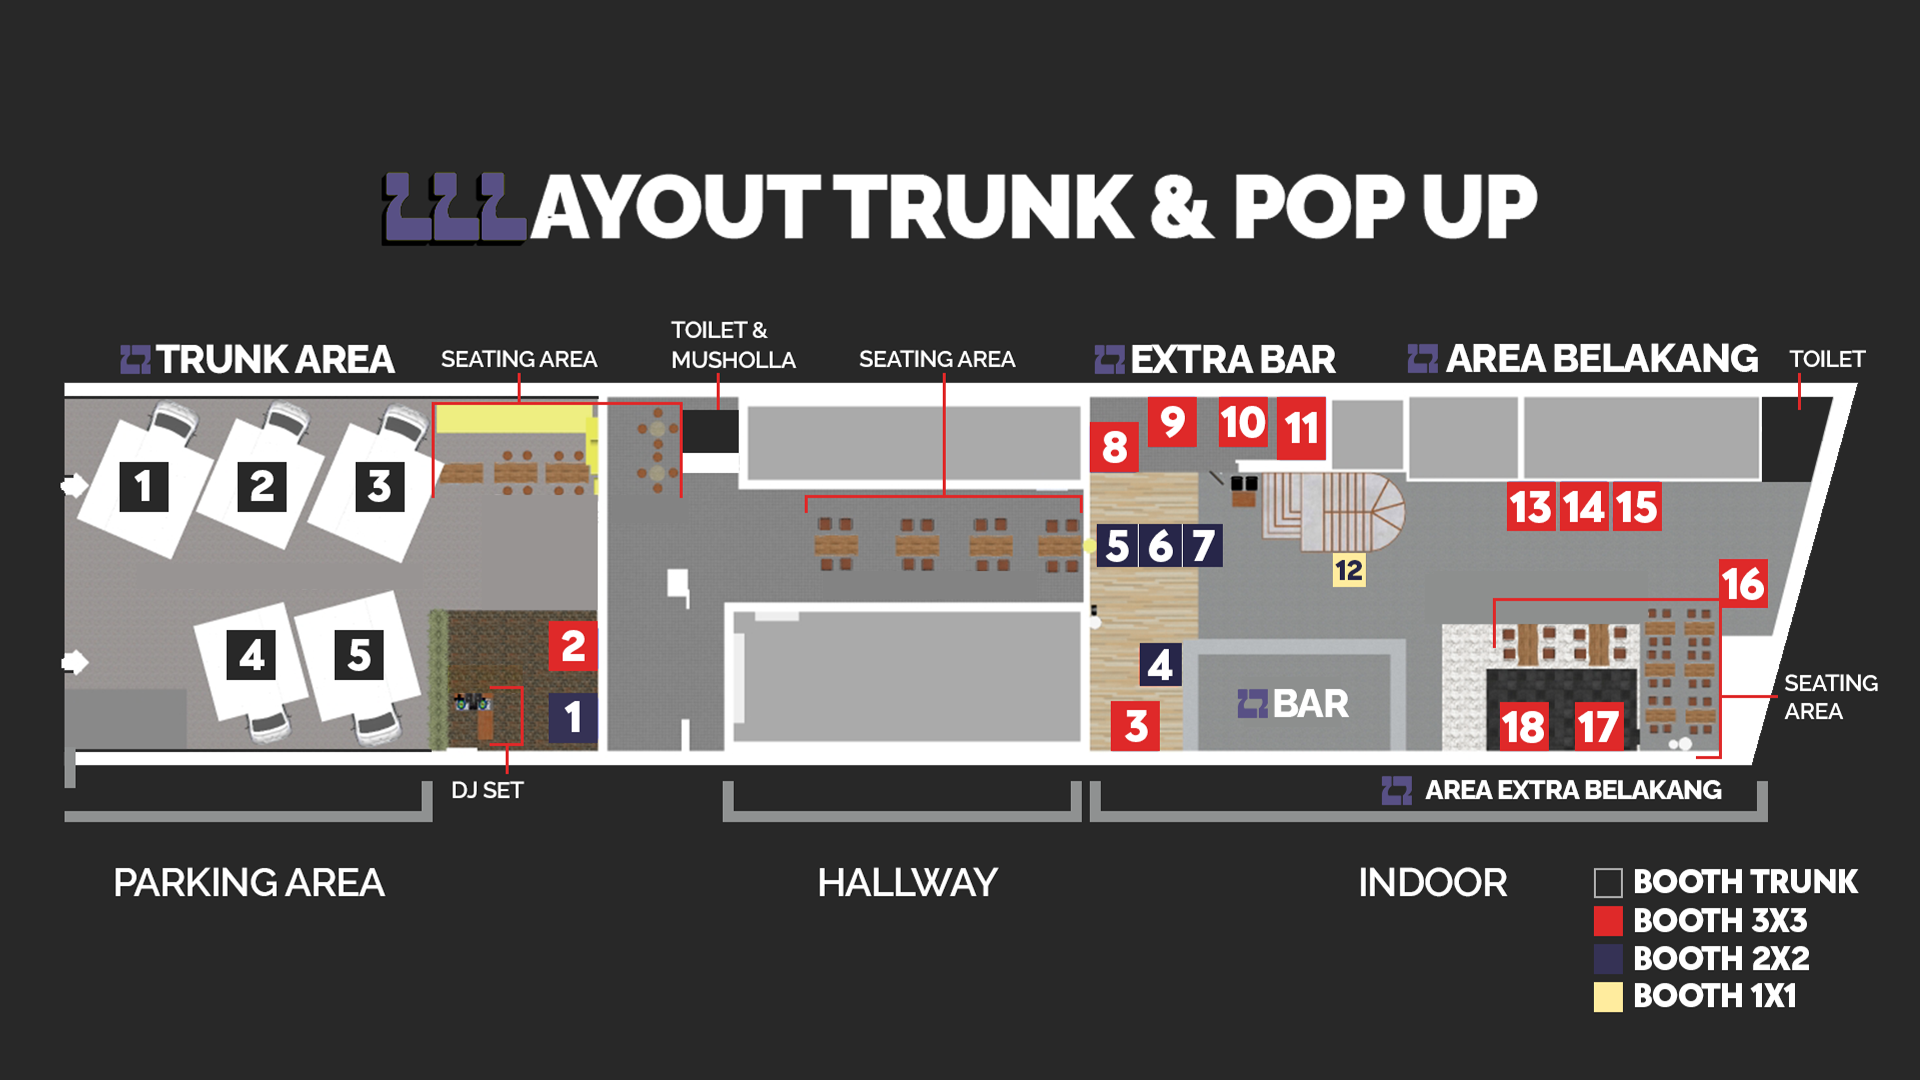
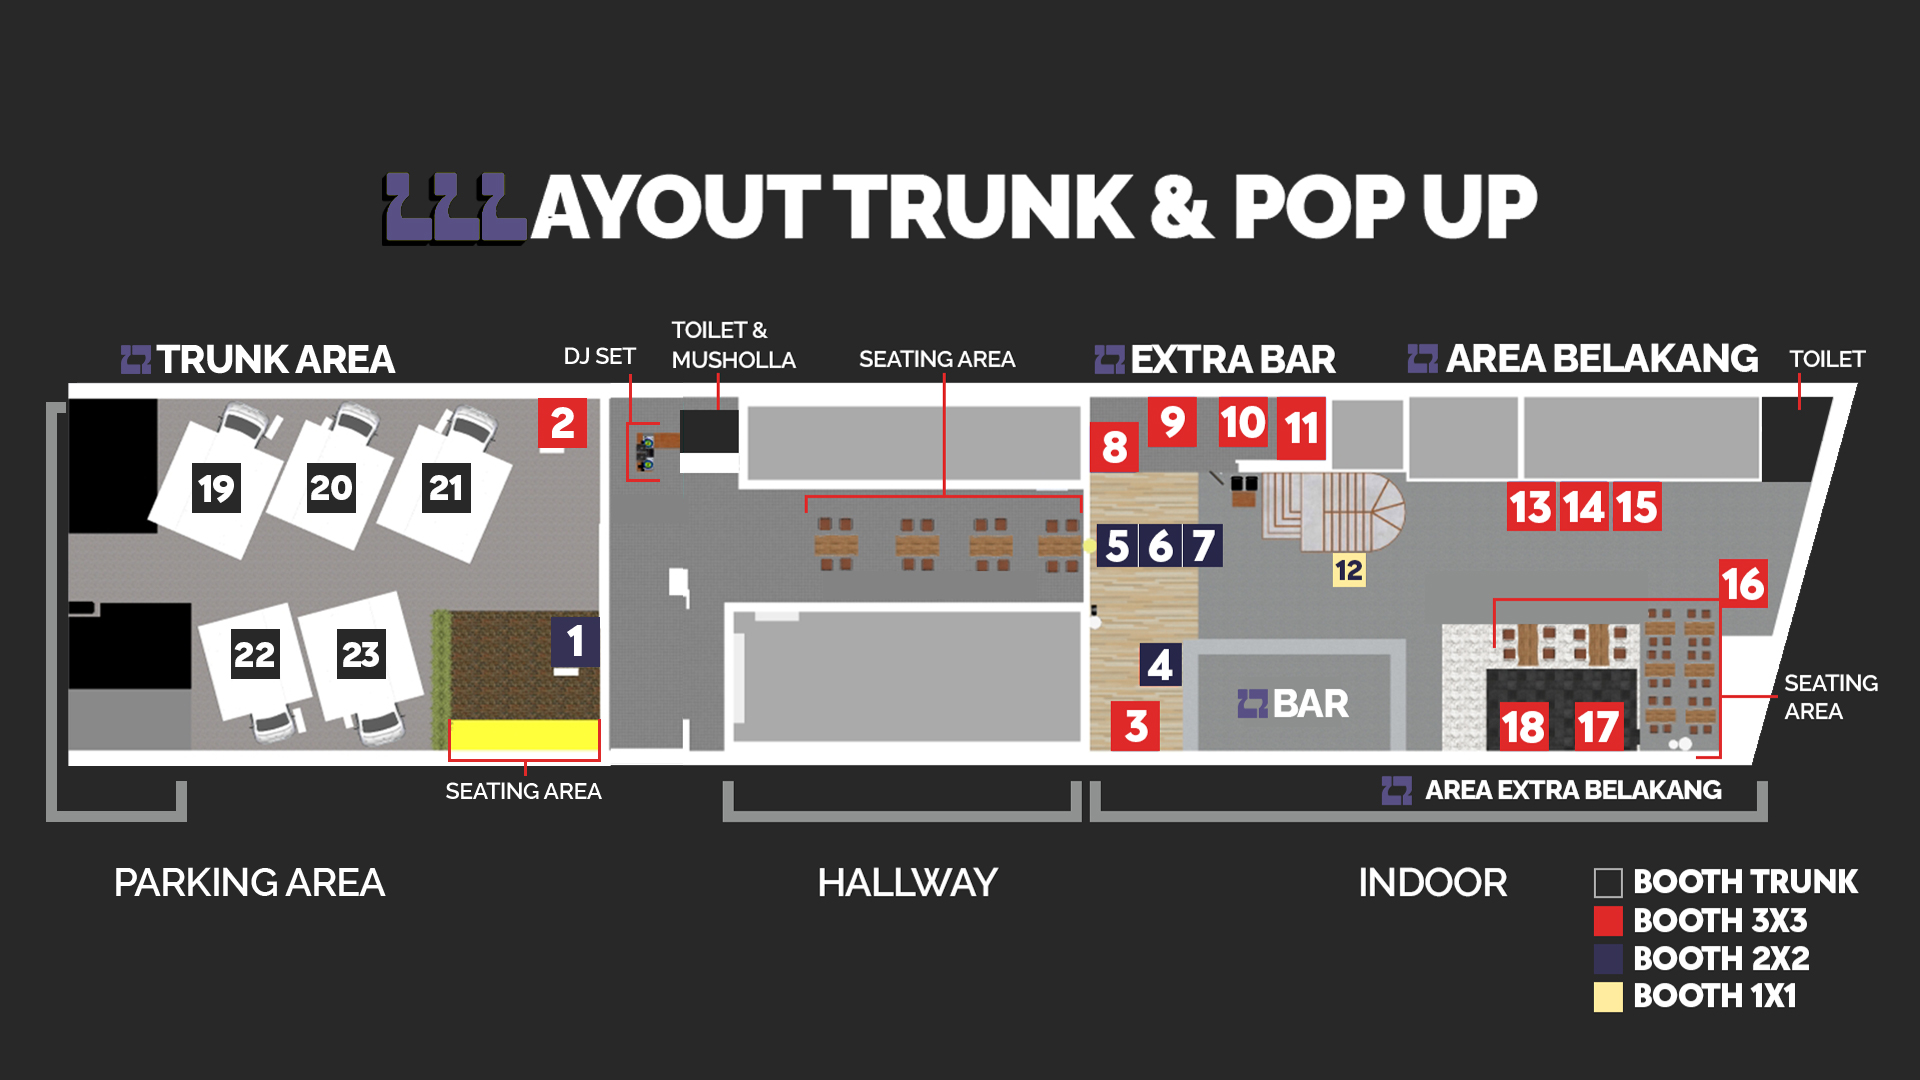
fix issue

Changed region(s): [[0.0, 0.3056, 0.375, 0.7639], [0.0625, 0.7944, 0.1875, 0.825]]

diff --git a/src/components/LayoutMap.tsx b/src/components/LayoutMap.tsx
@@ -23,8 +23,8 @@ interface SpotInfo {
 
 export const spots: SpotInfo[] = [
   // PARKING AREA - berdasarkan gambar
-  { id: 'spot-1', number: 1, x: 30, y: 62, size: '2x2m', area: 'Parking Area', available: true, price: { threeDay: 375000, twoDay: 325000, oneDay: 275000 } },
-  { id: 'spot-2', number: 2, x: 30, y: 57, size: '3x3m', area: 'Parking Area', available: true, price: { threeDay: 450000, twoDay: 350000, oneDay: 300000 } },
+  { id: 'spot-1', number: 1, x: 30, y: 57, size: '2x2m', area: 'Parking Area', available: true, price: { threeDay: 375000, twoDay: 325000, oneDay: 275000 } },
+  { id: 'spot-2', number: 2, x: 29.2, y: 42, size: '3x3m', area: 'Parking Area', available: true, price: { threeDay: 450000, twoDay: 350000, oneDay: 300000 } },
   
   // TRUNK AREA & SEATING AREA
   { id: 'spot-4', number: 4, x: 60.5, y: 58.5, size: '2x2m', area: 'Bar', available: true, price: { threeDay: 300000, twoDay: 250000, oneDay: 175000 } },
@@ -53,11 +53,11 @@ export const spots: SpotInfo[] = [
   { id: 'spot-17', number: 17, x: 79.4, y: 62.7, size: '3x3m', area: 'Extra Belakang', available: true, price: { threeDay: 300000, twoDay: 250000, oneDay: 200000 } },
   { id: 'spot-18', number: 18, x: 83.4, y: 62.7, size: '3x3m', area: 'Extra Belakang', available: true, price: { threeDay: 300000, twoDay: 250000, oneDay: 200000 } },
 
-  { id: 'spot-19', number: 19, x: 7.4, y: 46.7, size: 'Trunk-Package', area: 'Trunk Area', available: true, price: { threeDay: 0, twoDay: 500000, oneDay: 350000 } },
-  { id: 'spot-20', number: 20, x: 13.4, y: 46.7, size: 'Trunk-Package', area: 'Trunk Area', available: true, price: { threeDay: 0, twoDay: 500000, oneDay: 350000 } },
-  { id: 'spot-21', number: 21, x: 19.4, y: 46.7, size: 'Trunk-Package', area: 'Trunk Area', available: true, price: { threeDay: 0, twoDay: 500000, oneDay: 350000 } },
-  { id: 'spot-22', number: 22, x: 13, y: 58, size: 'Trunk-Package', area: 'Trunk Area', available: true, price: { threeDay: 0, twoDay: 500000, oneDay: 350000 } },
-  { id: 'spot-23', number: 23, x: 18.4, y: 57.7, size: 'Trunk-Package', area: 'Trunk Area', available: true, price: { threeDay: 0, twoDay: 500000, oneDay: 350000 } },
+  { id: 'spot-19', number: 19, x: 11.2, y: 46.7, size: 'Trunk-Package', area: 'Trunk Area', available: true, price: { threeDay: 0, twoDay: 500000, oneDay: 350000 } },
+  { id: 'spot-20', number: 20, x: 17.4, y: 46.7, size: 'Trunk-Package', area: 'Trunk Area', available: true, price: { threeDay: 0, twoDay: 500000, oneDay: 350000 } },
+  { id: 'spot-21', number: 21, x: 23.2, y: 46.7, size: 'Trunk-Package', area: 'Trunk Area', available: true, price: { threeDay: 0, twoDay: 500000, oneDay: 350000 } },
+  { id: 'spot-22', number: 22, x: 13.2, y: 58, size: 'Trunk-Package', area: 'Trunk Area', available: true, price: { threeDay: 0, twoDay: 500000, oneDay: 350000 } },
+  { id: 'spot-23', number: 23, x: 18.7, y: 57.7, size: 'Trunk-Package', area: 'Trunk Area', available: true, price: { threeDay: 0, twoDay: 500000, oneDay: 350000 } },
 ];
 
 interface LayoutMapProps {
@@ -74,7 +74,7 @@ export default function LayoutMap({ selectedSpot: selectedSpotId, onSpotSelect }
   const [dragStart, setDragStart] = useState({ x: 0, y: 0 });
   const [containerHeight, setContainerHeight] = useState(600);
   const mapRef = useRef<HTMLDivElement>(null);
-  const { isSpotCompletelyBooked, getBookedDurationsForSpot, isLoading: isLoadingBookings } = useBookingData();
+  const { isSpotCompletelyBooked, getBookedDurationsForSpot, getBookedLabelsForSpot, isLoading: isLoadingBookings } = useBookingData();
 
   // Sync selectedSpot with props
   useEffect(() => {
@@ -327,32 +327,14 @@ export default function LayoutMap({ selectedSpot: selectedSpotId, onSpotSelect }
                   <div className="md:col-span-2">
                     <span className="font-medium">Durasi yang Sudah Dibooking:</span>
                     <div className="mt-1 flex flex-wrap gap-1">
-                      {getBookedDurationsForSpot(selectedSpot.id).map((duration, index) => {
-                        // Convert duration value to readable label
-                        const getDurationLabel = (durationValue: string) => {
-                          switch (durationValue) {
-                            case 'threeDayFull':
-                              return '3 Hari (24,25,26 Oktober)';
-                            case 'threeDayPartial':
-                              return '2 Hari (25,26 Oktober)';
-                            case 'twoDay':
-                              return '2 Hari (24,26 Oktober)';
-                            case 'oneDay':
-                              return '1 Hari (26 Oktober)';
-                            default:
-                              return durationValue;
-                          }
-                        };
-                        
-                        return (
-                          <span 
-                            key={index}
-                            className="px-2 py-1 bg-orange-100 text-orange-800 text-xs rounded-full font-medium"
-                          >
-                            {getDurationLabel(duration)}
-                          </span>
-                        );
-                      })}
+                      {getBookedLabelsForSpot(selectedSpot.id).map((label, index) => (
+                        <span 
+                          key={index}
+                          className="px-2 py-1 bg-orange-100 text-orange-800 text-xs rounded-full font-medium"
+                        >
+                          {label}
+                        </span>
+                      ))}
                     </div>
                   </div>
                 )}

diff --git a/src/lib/bookingStore.ts b/src/lib/bookingStore.ts
@@ -25,6 +25,7 @@ interface BookingStore {
   // Helper functions
   isDurationBookedForSpot: (spotId: string, duration: string) => boolean;
   getBookedDurationsForSpot: (spotId: string) => string[];
+  getBookedLabelsForSpot: (spotId: string) => string[];
   isSpotCompletelyBooked: (spotId: string) => boolean;
 }
 
@@ -65,6 +66,26 @@ export const useBookingStore = create<BookingStore>((set, get) => ({
         booking['Booked'] === true
       )
       .map(booking => booking['Durasi']);
+  },
+  
+  // Helper to get human-readable booked labels based on the actual booked dates
+  getBookedLabelsForSpot: (spotId: string) => {
+    const { bookings } = get();
+    return bookings
+      .filter(booking => 
+        booking['Posisi Tenan'] === spotId && 
+        booking['Booked'] === true
+      )
+      .map(booking => {
+        const tanggalRaw = booking['Tanggal'] || '';
+        const dates = tanggalRaw
+          .split(',')
+          .map((s: string) => s.trim())
+          .filter(Boolean);
+        const dayCount = dates.length > 0 ? dates.length : 1;
+        const datesText = dates.join(', ');
+        return `${dayCount} Hari (${datesText})`;
+      });
   },
   
   // Helper function to check if a spot is completely booked

diff --git a/src/hooks/useBookingData.ts b/src/hooks/useBookingData.ts
@@ -22,6 +22,7 @@ export function useBookingData() {
     updateLastUpdated,
     isDurationBookedForSpot,
     getBookedDurationsForSpot,
+    getBookedLabelsForSpot,
     isSpotCompletelyBooked
   } = useBookingStore();
   
@@ -80,6 +81,7 @@ export function useBookingData() {
     refresh,
     isDurationBookedForSpot,
     getBookedDurationsForSpot,
+    getBookedLabelsForSpot,
     isSpotCompletelyBooked
   };
 }
